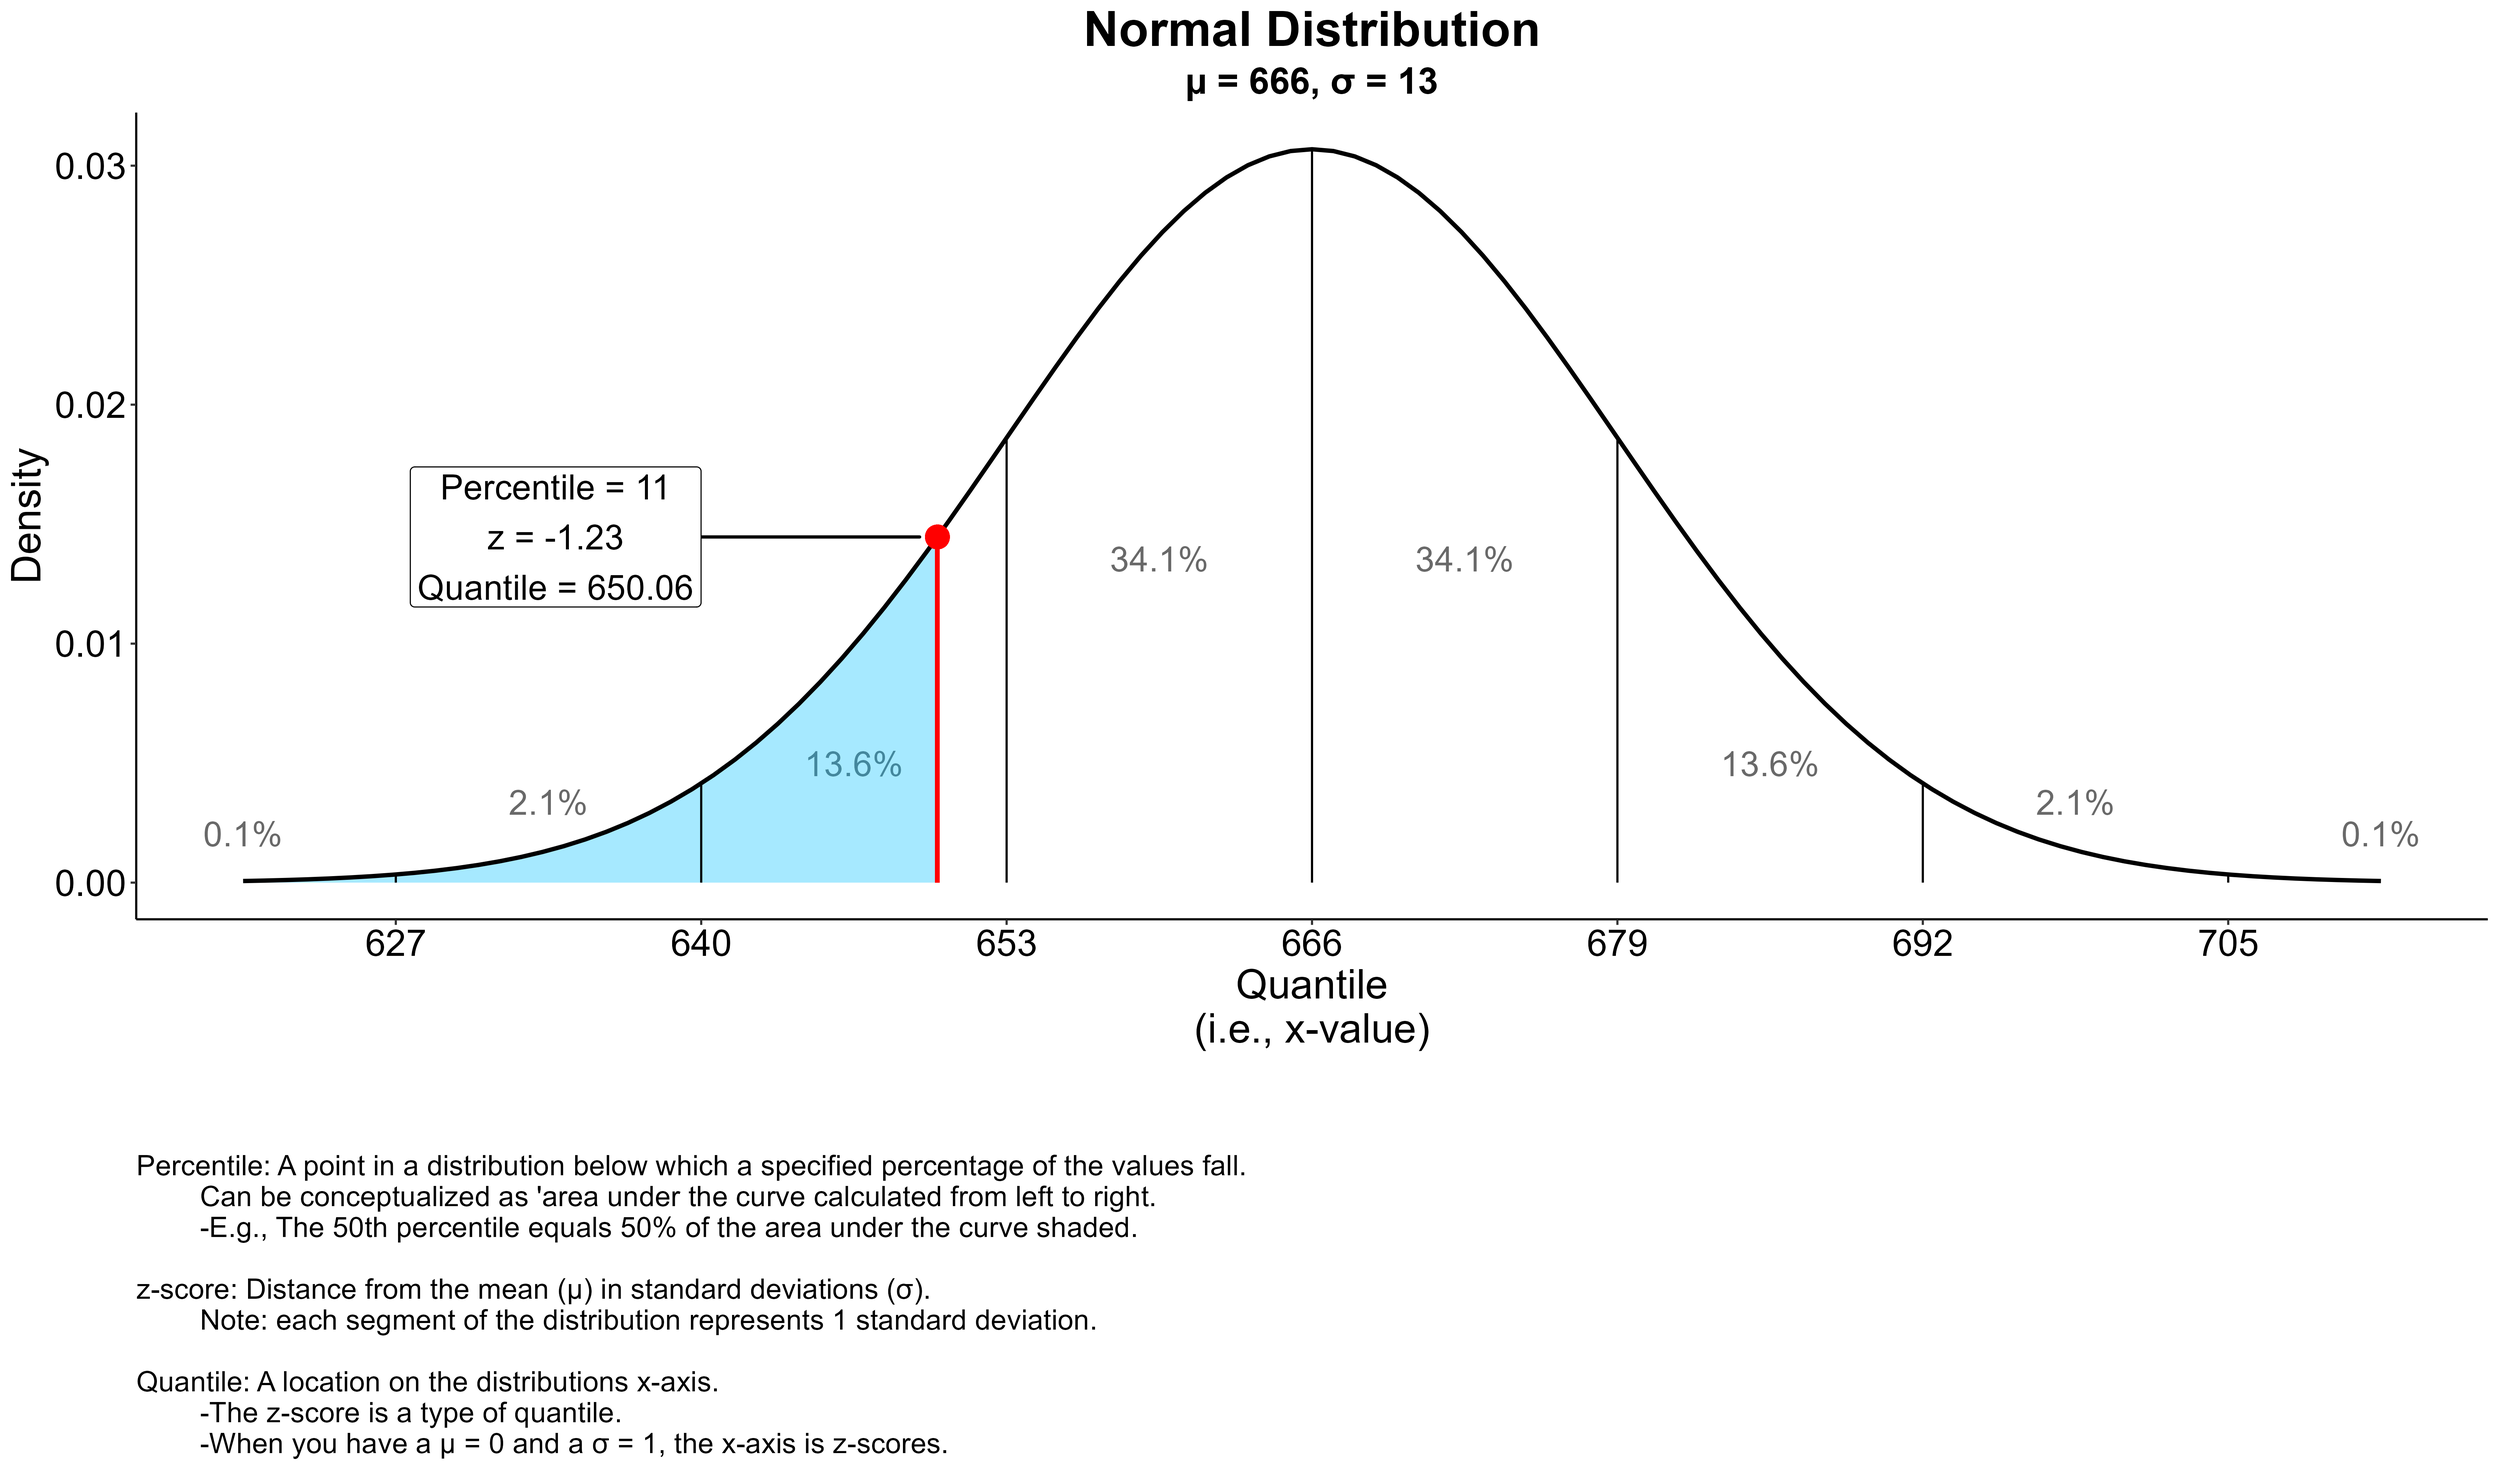
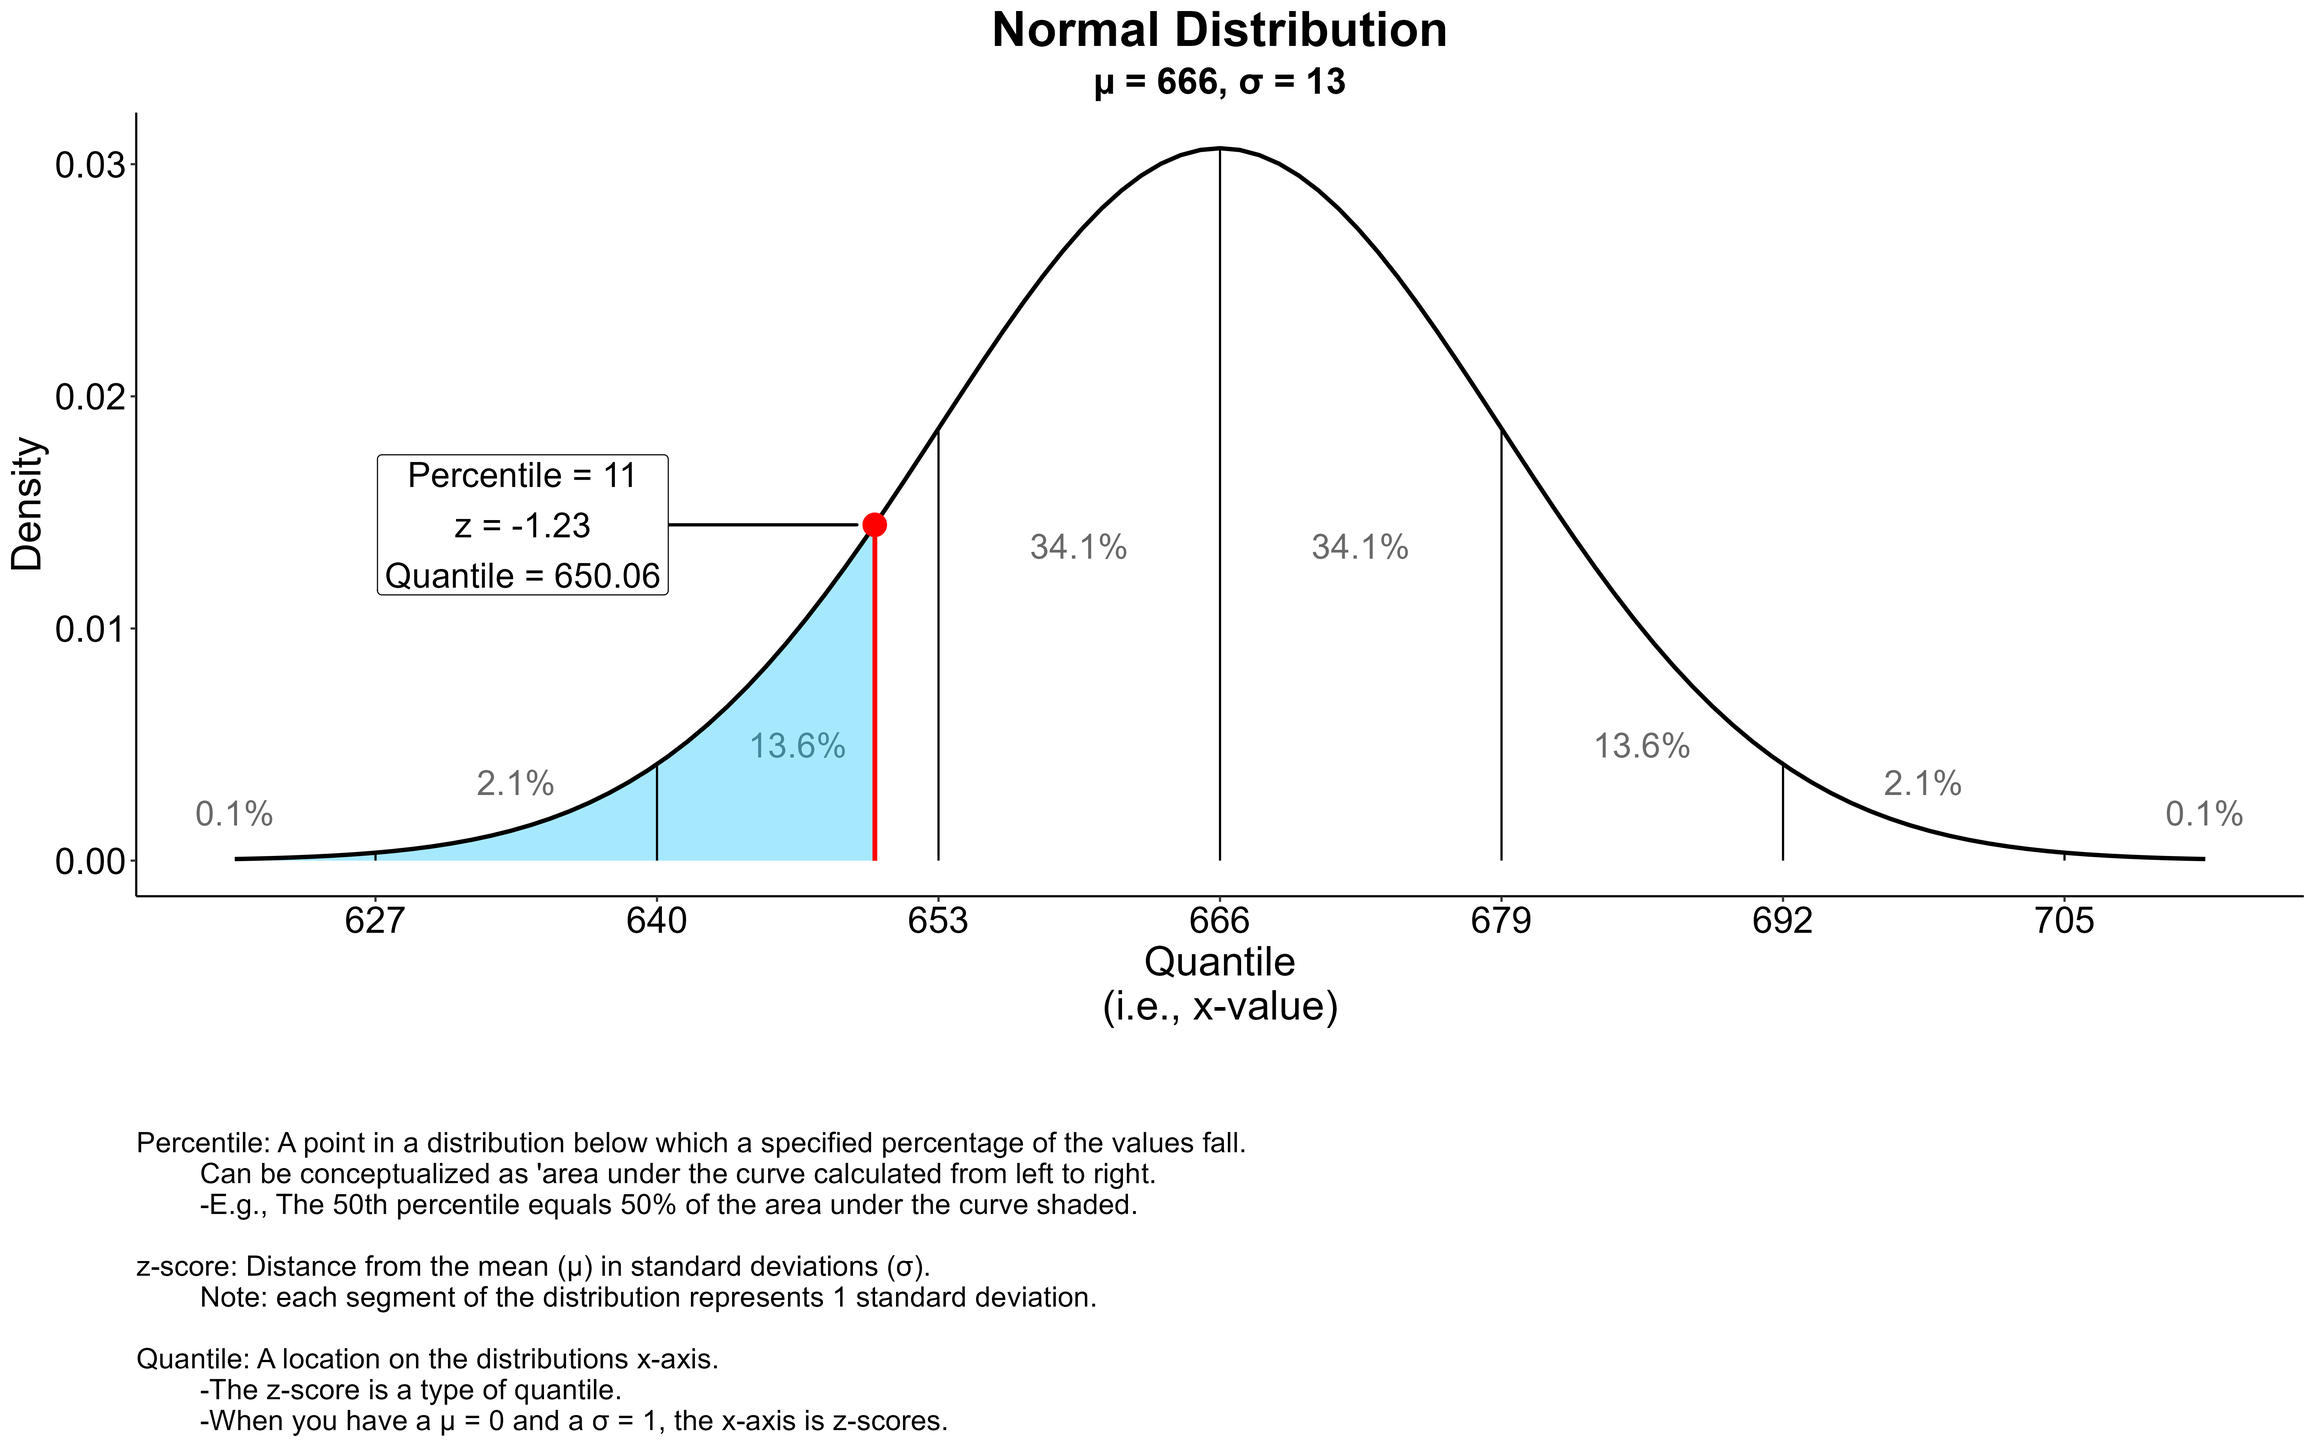
Function and README updates

diff --git a/README.md b/README.md
@@ -1,11 +1,11 @@
-# ```norm_help_func.R```
+# R Function for Visualizing $z$-scores, Quantiles, and Percentiles
 
 ## Description
 A simple R function to illustrate the distinction between percentiles, z-scores, and quantiles in a normal distribution.
 
 ## Example usage and output
 
-```
+```r
 norm_help(percentile = 11,
           z = NULL, 
           quantile = NULL,
@@ -13,39 +13,93 @@ norm_help(percentile = 11,
           sd = 13,
           title = "Normal Distribution",
           colour = "#00BFFF",
-          save = FALSE
-          )
+          save = FALSE,
+          caption = TRUE,
+          width = 40,
+          height = 25,
+          units = "cm",
+          image = "png"
+)
 ```
 
 <img title="11th Percentile Plot.png" src="11th Percentile Plot.png">
 
 ## Loading the function
 To load the function in R, run the following code:
-```source("https://raw.githubusercontent.com/jpisklak/Norm_Dist_Help/main/norm_help_func.R")```
+`source("https://raw.githubusercontent.com/jpisklak/Norm_Dist_Help/main/norm_help_func.R")`
 
 ## Arguments
 
-```percentile``` Percentile value displayed on plot.
+`percentile` 
+- A numeric value between 0 and 100 indicating the percentile to display.
 
-```z``` z-score value displayed on plot (pronounced 'zed-score').
+`z`
+- A numeric $z$-score to display on the plot (pronounced "zed-score").
 
-```quantile``` x-axis point-value displayed on plot.
+`quantile`
+- x-axis point-value displayed on plot.
 
-```mean, sd``` Distribution's specified mean and standard deviation. Defaults to 0 and 1, respectively.
+`mean`, `sd`
 
-```title``` Plot title.
+- Numeric values specifying the mean and standard deviation of the normal distribution. Defaults are `mean = 0` and `sd = 1`.
 
-```colour``` Fill colour of percentile shading.
+`title`
 
-```save``` logical evaluating to ```TRUE``` or ```FALSE``` indicating if plot should be saved.  
+- A character string specifying the plot title.
+
+`colour`
+
+- A character string indicating the fill color for the shaded region (e.g., `"steelblue"` or `"#B22222"`).
+
+`save`
+
+- Logical (`TRUE` or `FALSE`). If TRUE, the plot is saved to file. Default is `FALSE`.
+
+`caption`
+
+- Logical (`TRUE` or `FALSE`). If `TRUE`, a caption explaining the interpretation is added to the plot. Default is `FALSE`.
+
+`width`, `height`
+
+- Numeric values specifying the dimensions of the saved image.
+
+`units`
+
+- A character string specifying the units of the saved image's dimensions. Options include `"in"`, `"cm"`, `"mm"`, and `"px"`.
+
+`image`
+
+- A character string specifying the image type to be saved. Options include `"png"` (default), `"eps"`, `"ps"`, `"pdf"`, `"jpeg"`, `"tiff"`, `"png"`, `"bmp"`, `"svg"`.
+
 
 ## Details
 
-If both ```percentile``` and ```z``` are specified, ```z``` is ignored.  
+Specify only one of `percentile`, `z`, or `quantile`. These arguments are mutually exclusive — if more than one is provided, the function default to the first .
 
-Plot saves as a 400 dpi PNG file.
+For raster graphics, plot saves at a resolution of 400 dpi.
 
 The following CRAN packages are necessary to run this function and will be automatically installed and loaded when run:
 
-  - ggplot2
-  - ggrepel
+- **ggplot2**:
+  -   H. Wickham. ggplot2: Elegant Graphics for Data Analysis.
+  Springer-Verlag New York, 2016. 
+  
+- **ggrepel**:
+  - Slowikowski, K. (2024). *ggrepel: Automatically position non-overlapping text labels with ggplot2* (R package version 0.9.6). https://CRAN.R-project.org/package=ggrepel
+  
+## Citation
+
+If you use this tool in your teaching, writing, or research, please cite it as follows:
+
+Pisklak, J. M. (2025). *R Function for Visualizing $z$-scores, Quantiles, and Percentiles* [R code]. GitHub. https://github.com/jpisklak/Norm_Dist_Help
+
+```bibtex
+@online{ ,
+  author       = {Pisklak, Jeffrey M.},
+  title        = {R Function for Visualizing Z-scores, Quantiles, and Percentiles},
+  year         = {2025},
+  organization = {GitHub},
+  note         = {R code},
+  url          = {https://github.com/jpisklak/Norm_Dist_Help}
+}
+```
